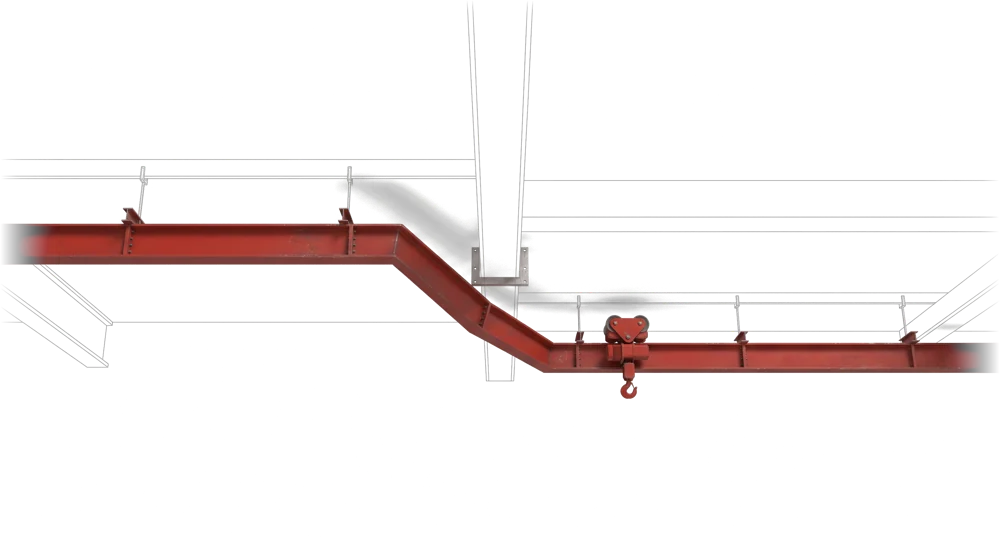
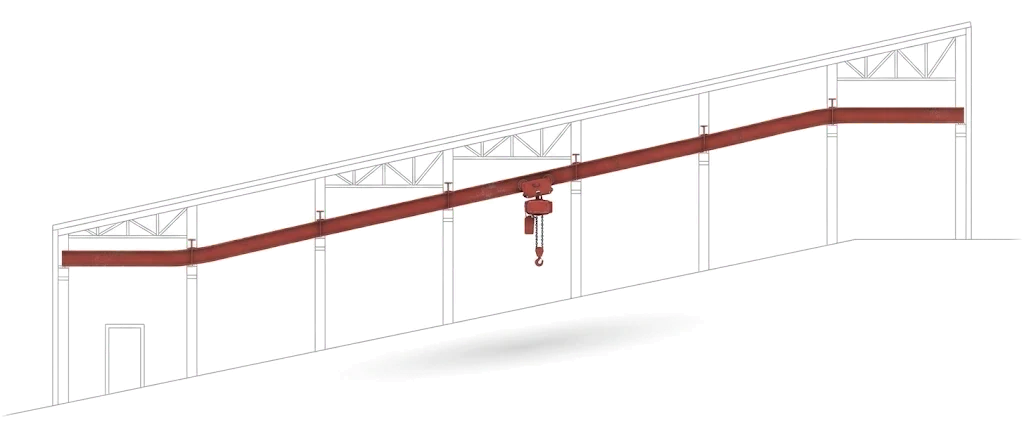
Krane nach Mass: Steigung, Versatz und «Eng» als Bilder im Stil «grau gezeichnet, rot und echt»
Steigung: Halle am Hang von der Seite, Fahrbahn waagrecht – steigend – waagrecht. Versatz: zwei
Hallenteile, durchgehende Fahrbahn mit Kurve, Hänger verschieden lang. Eng: die verzinkte Anlage
im Schacht als Zeichnung mit roter Katze. Alt-Texte in allen Sprachen.

Claude-Session: https://claude.ai/code/session_01GJeei3ptvAkbfZWk6KZmvU

diff --git a/website/src/content/krantechnik.ts b/website/src/content/krantechnik.ts
@@ -140,9 +140,9 @@ export const craneSituations = t('krantechnik', {
   lead: 'Vier Situationen, die wir oft sehen – und wie der Kran trotzdem passt.',
   items: [
     { photo: 'kran-kurve', illo: 'karten/kran-kurve', label: 'Kurve', title: 'Um die Ecke', alt: 'Zeichnung von oben: Halle in L-Form, die rote Fahrbahn biegt um die Ecke', text: 'Die Fahrbahn muss abbiegen. Wir bauen sie als Kurve, mit einem Fahrwerk, das ihr folgt.' },
-    { photo: 'kran-steigung', illo: 'karten/kran-steigung', label: 'Steigung', title: 'Über eine Steigung', alt: 'Zeichnung im Schnitt: Decke mit Absatz, die rote Fahrbahn steigt weich mit an', text: 'Die Decke hat einen Absatz. Die Fahrbahn steigt weich mit an – Antrieb und Bremse sind dafür ausgelegt.' },
-    { photo: 'kran-versatz', illo: 'kran-versatz', label: 'Versatz', title: 'Decke mit Versatz', alt: 'Zeichnung im Schnitt: Decke springt in der Höhe, die rote Fahrbahn hängt gerade darunter', text: 'Die Höhe springt, Balken oder Unterzüge stören. Wir hängen die Fahrbahn so ab, dass die Hubhöhe nutzbar bleibt.' },
-    { photo: 'kran-eng', illo: 'karten/kran-eng', label: 'Wenig Platz', title: 'Eng und verwinkelt', alt: 'Zeichnung: enger Raum zwischen Wänden und Stützen, der rote Kran mit Greifer passt genau hinein', text: 'Stützen, Nischen, wenig Platz: Ein kompakter Kran mit passendem Greifer erreicht auch die letzte Ecke.' },
+    { photo: 'kran-steigung', illo: 'karten/kran-steigung', label: 'Steigung', title: 'Über eine Steigung', alt: 'Zeichnung von der Seite: Halle am Hang, die rote Fahrbahn läuft waagrecht, steigt mit an und läuft oben wieder waagrecht', text: 'Die Decke hat einen Absatz. Die Fahrbahn steigt weich mit an – Antrieb und Bremse sind dafür ausgelegt.' },
+    { photo: 'kran-versatz', illo: 'karten/kran-versatz', label: 'Versatz', title: 'Decke mit Versatz', alt: 'Zeichnung: zwei Hallenteile mit verschieden hoher Decke, die rote Fahrbahn biegt in einer Kurve vom einen in den anderen und bleibt waagrecht', text: 'Die Höhe springt, Balken oder Unterzüge stören. Wir hängen die Fahrbahn so ab, dass die Hubhöhe nutzbar bleibt.' },
+    { photo: 'kran-eng', illo: 'karten/kran-eng', label: 'Wenig Platz', title: 'Eng und verwinkelt', alt: 'Zeichnung: enger Schacht mit schrägen Wänden und Treppe, die rote Katze mit Plattform passt genau hinein', text: 'Stützen, Nischen, wenig Platz: Ein kompakter Kran mit passendem Greifer erreicht auch die letzte Ecke.' },
   ],
   missing: { title: 'Ihre Situation ist nicht dabei?', text: 'Fragen Sie trotzdem. Schicken Sie uns ein paar Fotos, wir sagen Ihnen ehrlich, ob es geht.', cta: anfrage('Fotos schicken') },
 });

diff --git a/website/OFFENE_PUNKTE.md b/website/OFFENE_PUNKTE.md
@@ -3,7 +3,7 @@
 > Generiert nach jedem `npm run build`. Nicht von Hand ändern – sobald ein Foto in
 > `src/config/photos.mjs` eine Datei hat, verschwindet seine Zeile von selbst.
 
-**Stand:** 5 Fotos blockieren den Start · 7 für später · 1 abgeschaltete Sektion
+**Stand:** 5 Fotos blockieren den Start · 8 für später · 1 abgeschaltete Sektion
 
 ## Blockiert den Start
 
@@ -28,6 +28,7 @@ In der Fotoliste vorgesehen, aber auf keiner Seite verwendet – sie halten den 
 | `kran-kurve` | Kran nach Mass mit Kurvenfahrbahn: die Fahrbahn biegt sichtbar um eine Ecke, Katze oder Greifer in der Kurve, Gebäude erkennbar, quer | 4:3 | noch nicht verwendet |
 | `kran-steigung` | Kran nach Mass in einem Gebäude mit Steigung: Fahrbahn folgt dem ansteigenden Dach oder Boden, Steigung gut sichtbar, quer | 4:3 | noch nicht verwendet |
 | `kran-versatz` | Kran nach Mass unter einer Decke mit Höhensprung oder Unterzug: Aufhängungen unterschiedlich lang, die Fahrbahn läuft durch, quer | 4:3 | noch nicht verwendet |
+| `kran-eng` | Kompakter Kran in einem engen, verwinkelten Raum mit Stützen oder Nischen, der Greifer erreicht eine Ecke, quer | 4:3 | noch nicht verwendet |
 | `handschlag` | Heiri Steiner und Clemens Fritsche beim Handschlag, freigestellt (transparenter Grund), hoch – heute steht dort portraet-clemens | 4:5 | noch nicht verwendet |
 | `werkstatt-aussen` | Betriebsgebäude in Tuttwil von aussen, mit Zufahrt und Beschriftung, quer | 3:2 | noch nicht verwendet |
 | `team` | Teamfoto im Betrieb (nur mit Einverständnis aller Abgebildeten), quer | 3:2 | noch nicht verwendet |
